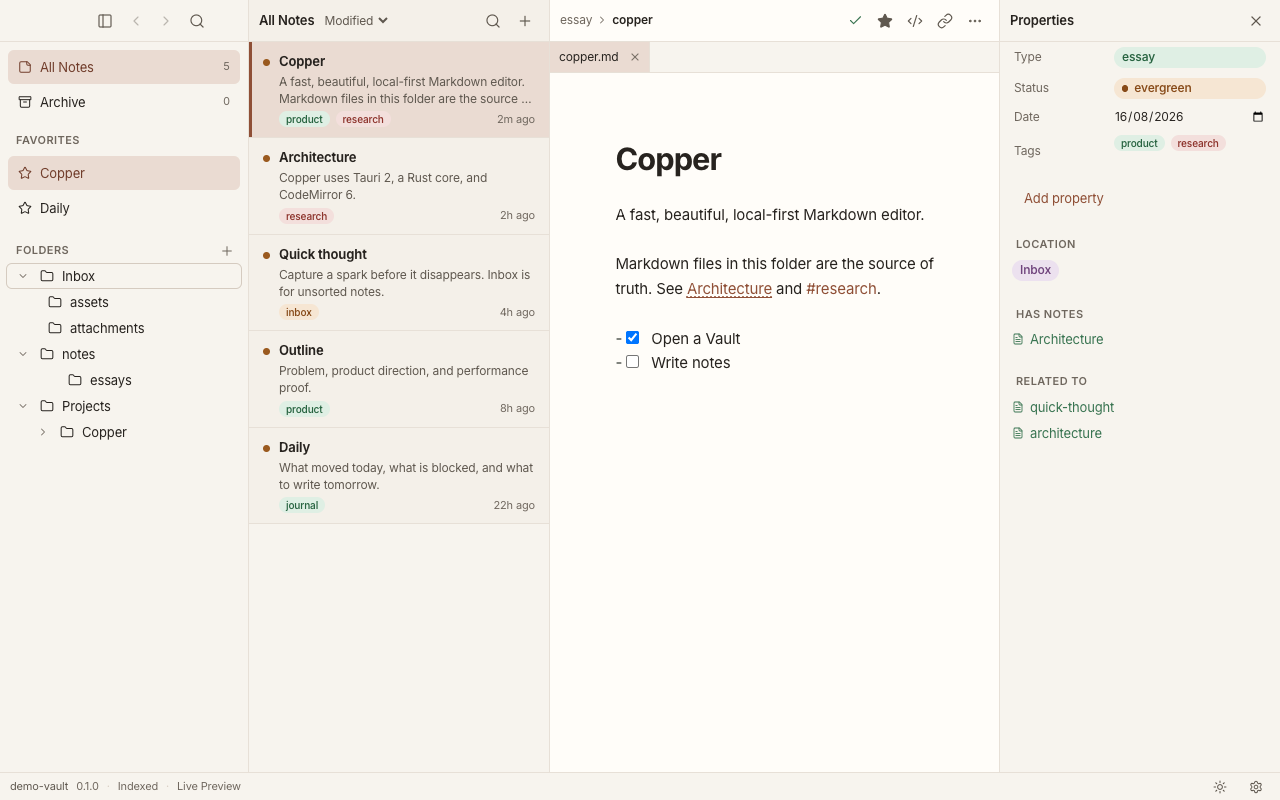
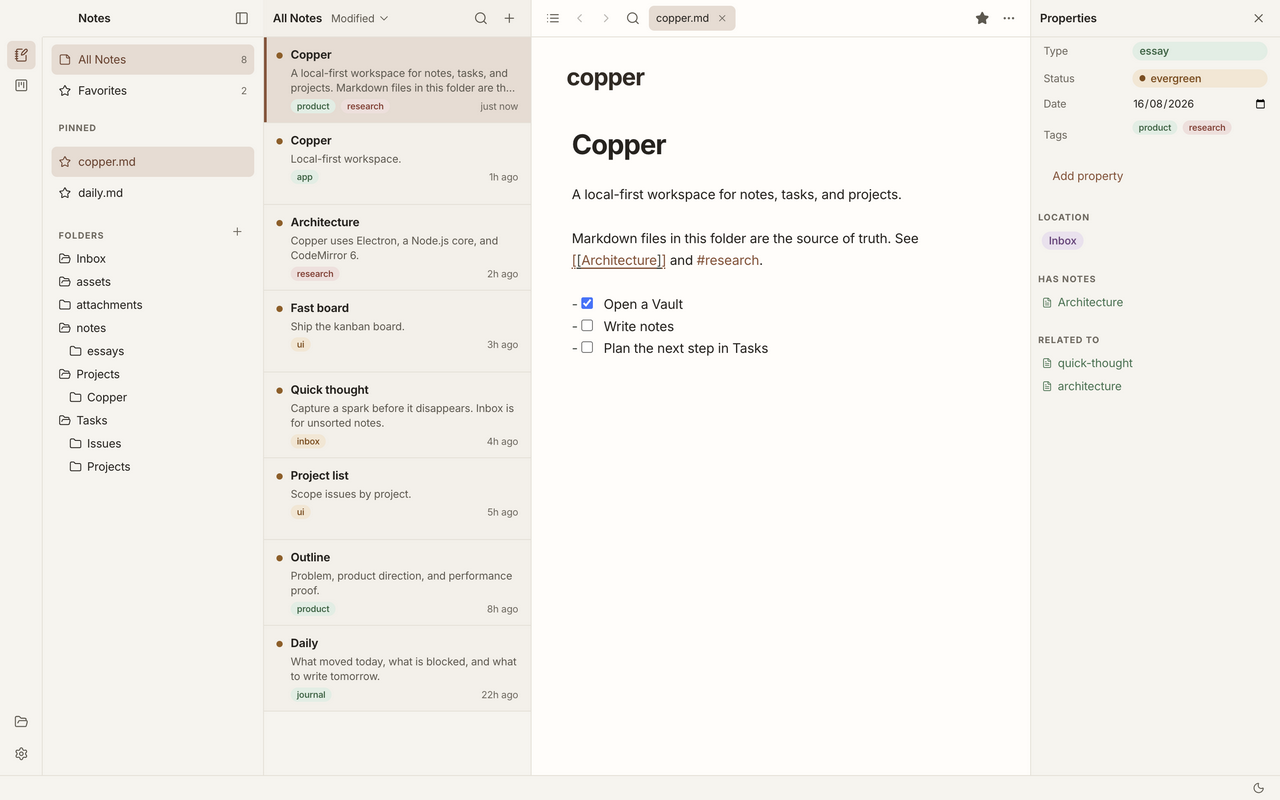
feat: showcase Tasks across Copper site and screenshots

diff --git a/apps/landing/src/lib/site.ts b/apps/landing/src/lib/site.ts
@@ -1,9 +1,9 @@
 export const site = {
   name: "Copper",
   url: "https://copper.potion.sh",
-  title: "Copper — A little space to think clearly",
+  title: "Copper — Notes, tasks, and projects. Yours.",
   description:
-    "A calm desktop workspace for your notes, ideas, and projects. Plain Markdown files, stored on your computer. No account. No cloud required.",
+    "A calm desktop workspace for your notes, tasks, and projects. Plain Markdown files, stored on your computer. No account. No cloud required.",
   repository: "https://github.com/antick/copper",
   releases: "https://github.com/antick/copper/releases",
   setup: "https://github.com/antick/copper#run-locally",
@@ -12,7 +12,8 @@ export const site = {
 };
 
 export const navigation = [
-  { label: "The workspace", href: "#workspace" },
+  { label: "Notes", href: "#workspace" },
+  { label: "Tasks", href: "#tasks" },
   { label: "Your files", href: "#your-files" },
   { label: "Questions", href: "#questions" },
 ];
@@ -45,7 +46,7 @@ export const questions = [
   {
     question: "What is Copper?",
     answer:
-      "Copper is a desktop workspace for Markdown notes and projects. It brings writing, linked notes, search, properties, and task boards together around a folder on your computer.",
+      "Copper is a desktop workspace for Markdown notes, tasks, and projects. It brings writing, linked notes, search, properties, and task boards together around a folder on your computer.",
   },
   {
     question: "Do I need an account or an internet connection?",

diff --git a/scripts/screenshot-demo.js b/scripts/screenshot-demo.js
@@ -1,0 +1,49 @@
+// Run only in the browser preview. Populate sample work through Copper's own bridge.
+(async () => {
+  if (
+    new URLSearchParams(location.search).get("preview") !== "1" ||
+    window.copperDesktop?.packaged !== false
+  ) {
+    throw new Error("Screenshot samples require Copper's demo preview.");
+  }
+  const invoke = window.copperDesktop.invoke;
+  const samples = [
+    {
+      title: "Sketch the next release",
+      status: "todo",
+      priority: "high",
+      labels: ["planning"],
+    },
+    {
+      title: "Write the getting started guide",
+      status: "todo",
+      priority: "medium",
+      labels: ["docs"],
+    },
+    {
+      title: "Polish the welcome screen",
+      status: "in_progress",
+      priority: "high",
+      labels: ["design"],
+    },
+    {
+      title: "Review keyboard shortcuts",
+      status: "in_review",
+      priority: "medium",
+      labels: ["ui"],
+    },
+    {
+      title: "Choose the launch palette",
+      status: "done",
+      priority: "low",
+      labels: ["design"],
+    },
+  ];
+  const existing = await invoke("list_issues", {});
+  for (const sample of samples) {
+    if (!existing.some((issue) => issue.title === sample.title)) {
+      await invoke("create_issue", { ...sample, project: "copper" });
+    }
+  }
+  return (await invoke("list_issues", {})).length;
+})();

diff --git a/apps/desktop/src/preview/mock-desktop.ts b/apps/desktop/src/preview/mock-desktop.ts
@@ -25,12 +25,13 @@ tags:
 
 # Copper
 
-A fast, beautiful, local-first Markdown editor.
+A local-first workspace for notes, tasks, and projects.
 
 Markdown files in this folder are the source of truth. See [[Architecture]] and #research.
 
 - [x] Open a Vault
 - [ ] Write notes
+- [ ] Plan the next step in Tasks
 `;
 
 const ARCHITECTURE_MD = `---
@@ -184,7 +185,7 @@ let NOTES = [
     path: "Inbox/copper.md",
     title: "Copper",
     snippet:
-      "A fast, beautiful, local-first Markdown editor. Markdown files in this folder are the source of truth.",
+      "A local-first workspace for notes, tasks, and projects. Markdown files in this folder are the source of truth.",
     tags: ["product", "research"],
     mtimeNs: Date.now() * 1_000_000,
   },

diff --git a/apps/landing/src/styles/sections.css b/apps/landing/src/styles/sections.css
@@ -291,3 +291,30 @@
 .skip-link:focus {
   top: 12px;
 }
+
+.tasks {
+  margin-top: 80px;
+}
+.task-showcases {
+  display: grid;
+  gap: 48px;
+  margin-top: 44px;
+}
+.task-showcases figure {
+  margin: 0;
+}
+.task-showcases figcaption {
+  margin-top: 22px;
+  max-width: 680px;
+}
+.task-showcases h3 {
+  font-family: var(--font-serif);
+  font-size: 29px;
+  letter-spacing: -0.03em;
+  margin-bottom: 10px;
+}
+.task-showcases p {
+  font-size: 14px;
+  line-height: 1.8;
+  color: var(--muted-foreground);
+}

diff --git a/apps/desktop/src/features/welcome/copy.ts b/apps/desktop/src/features/welcome/copy.ts
@@ -1,8 +1,8 @@
 export const WELCOME_COPY = {
   heading: "Copper",
-  thesis: "Notes live in a folder on this computer.",
+  thesis: "Your notes, tasks, and projects. On this computer.",
   invitation: "Open a folder of Markdown files.",
-  footnote: "Markdown stays on disk. Copper does not write into the folder.",
+  footnote: "Notes and tasks stay yours, as Markdown files on disk.",
   openVault: "Open Vault",
   recentHeading: "Recent Vaults",
   settings: "Settings",

diff --git a/README.md b/README.md
@@ -1,16 +1,24 @@
 # Copper
 
-A fast, beautiful, local-first Markdown editor.
+A local-first workspace for notes, tasks, and projects.
 
 **Website: [copper.potion.sh](https://copper.potion.sh)**
 
-Copper is a desktop knowledge workspace. A **Vault** is any folder you choose;
-Markdown files in that folder are the source of truth. There is no account and
-no cloud. The SQLite search index lives in app data, not inside your notes.
+Copper brings **Notes** and **Tasks** into one desktop workspace. A **Vault** is
+any folder you choose. Notes, projects, and issues are Markdown files in that
+folder. There is no account and no cloud. The SQLite search index lives in app data, not inside your notes.
 
 ![Copper editor showing demo notes and properties in the Linen theme](docs/images/editor.png)
 
 *Browse notes, edit Markdown, and manage properties in one workspace.*
+
+![Copper Tasks showing the All issues list with statuses, priorities, and projects](docs/images/tasks-list.png)
+
+*Plan work in Tasks: find issues, set priorities, and keep projects close at hand.*
+
+![Copper project board showing demo issues organized by workflow status](docs/images/tasks-board.png)
+
+*Switch between project overview, issue list, and board. Move cards as work progresses.*
 
 ![Appearance settings](docs/images/settings.png)
 
@@ -70,7 +78,10 @@ with install scripts disabled, builds the site, and serves `apps/landing/dist`.
 Pushes to `main` deploy the production site. This does not package or publish
 the desktop app. Cloudflare manages the DNS-only CNAME for `copper`.
 
-The landing page uses the existing product artwork and screenshots directly.
+The landing page and README share the current Notes, Tasks list, project board,
+and Appearance screenshots in `docs/images`. They show the real renderer with
+demo data. To refresh them, start `pnpm dev:web --host 127.0.0.1 --port 1422`,
+then run `bash scripts/capture-readme-screenshots.sh` (requires `agent-browser`).
 Edit copy and links in `apps/landing/src/lib/site.ts`. The reusable shadcn Button
 is rendered as static HTML through Astro’s React integration; FAQ disclosure
 uses native HTML and needs no client JavaScript. Setup follows the
@@ -126,9 +137,11 @@ Unmarked Markdown in `Tasks/` stays an ordinary note. Copper does not create a
 `.copper/` directory in the Vault; the SQLite index stays in app data.
 
 Tasks mode uses a compact task navigation pane and one full-width issue canvas.
-It includes All, Active, Backlog, and Completed destinations; a searchable
-Projects directory; project Overview, Issues, and Board tabs; virtualized issue
-lists; and pointer- plus keyboard-accessible kanban movement. Issue and project
+It includes All issues, user-managed Pinned and Projects navigation, project
+Overview, Issues, and Board tabs, searchable and filterable issue lists, and
+pointer- plus keyboard-accessible kanban movement. Set statuses, priorities,
+labels, and due dates; customize a project’s workflow; and keep multiple task
+tabs open alongside your notes. Issue and project
 forms reuse compact property controls, native date fields, and dismissible
 detail sheets. Failed writes keep the current draft or restore the optimistic
 board order so the user can retry. These views still read and write only the

diff --git a/TODO.md b/TODO.md
@@ -8,7 +8,7 @@ Track outstanding work and verification here. Completed implementation history l
 - [ ] Add environment-scoped signing credentials and verify a real Developer ID signed/notarized installer and a signed automatic update before public distribution.
 - [ ] Retire the legacy release repository: its history, metadata, and checksum-verified assets are backed up privately, but GitHub rejected deletion because the CLI token lacks `delete_repo` permission. Old clients will need a manual reinstall from this repository once a verified release is available.
 
-The initial source snapshot passed 246 frontend tests, 128 native tests, type checks, lint, web/Electron production builds, a dependency audit, and secret/privacy checks. Updates and release automation target this repository. The protected publishing job uses the automatic GitHub token. Only two selected demo images are retained in `docs/images`; temporary testing output is ignored.
+The initial source snapshot passed 246 frontend tests, 128 native tests, type checks, lint, web/Electron production builds, a dependency audit, and secret/privacy checks. Updates and release automation target this repository. The protected publishing job uses the automatic GitHub token. Selected demo images are retained in `docs/images`; temporary testing output is ignored.
 
 ## Landing page and monorepo
 
@@ -18,6 +18,9 @@ Verified: 246 frontend tests, 128 native tests, the landing production-output te
 
 The landing page is live at [copper.potion.sh](https://copper.potion.sh) on Vercel. Cloudflare’s DNS-only CNAME is configured, and HTTPS, page content, the canonical URL, robots.txt, sitemap.xml, and the 404 response have been verified.
 
+Notes and Tasks are now both represented in the landing hero, navigation, dedicated Tasks section, social metadata, README, welcome copy, and demo note. Four refreshed screenshots cover Notes, the Tasks list, the project board, and Appearance. Screenshot preparation uses only demo preview data. Verified: 246 frontend tests, 128 native tests, two landing checks (production output with all four images, plus safe and repeatable demo preparation), both type checks, Biome, both production builds, screenshot helper syntax, and the real capture steps through the shared browser. The production page loads every image and fits 320, 390, and 1440 pixel widths. The standalone screenshot CLI wrapper was syntax-checked; browser steps were executed through T3. This update is local and still needs publication.
+
+- [ ] Publish the Tasks presentation update after review.
 - [ ] Replace the early-development source/release links with download links after approved installers are available.
 
 ## Native acceptance

diff --git a/apps/desktop/tests/fixtures/demo-vault/copper.md b/apps/desktop/tests/fixtures/demo-vault/copper.md
@@ -10,9 +10,10 @@ tags:
 
 # Copper
 
-A fast, beautiful, local-first Markdown editor.
+A local-first workspace for notes, tasks, and projects.
 
 Markdown files in this folder are the source of truth. See [[Architecture]] and #research.
 
 - [x] Open a Vault
 - [ ] Write notes
+- [ ] Plan the next step in Tasks
